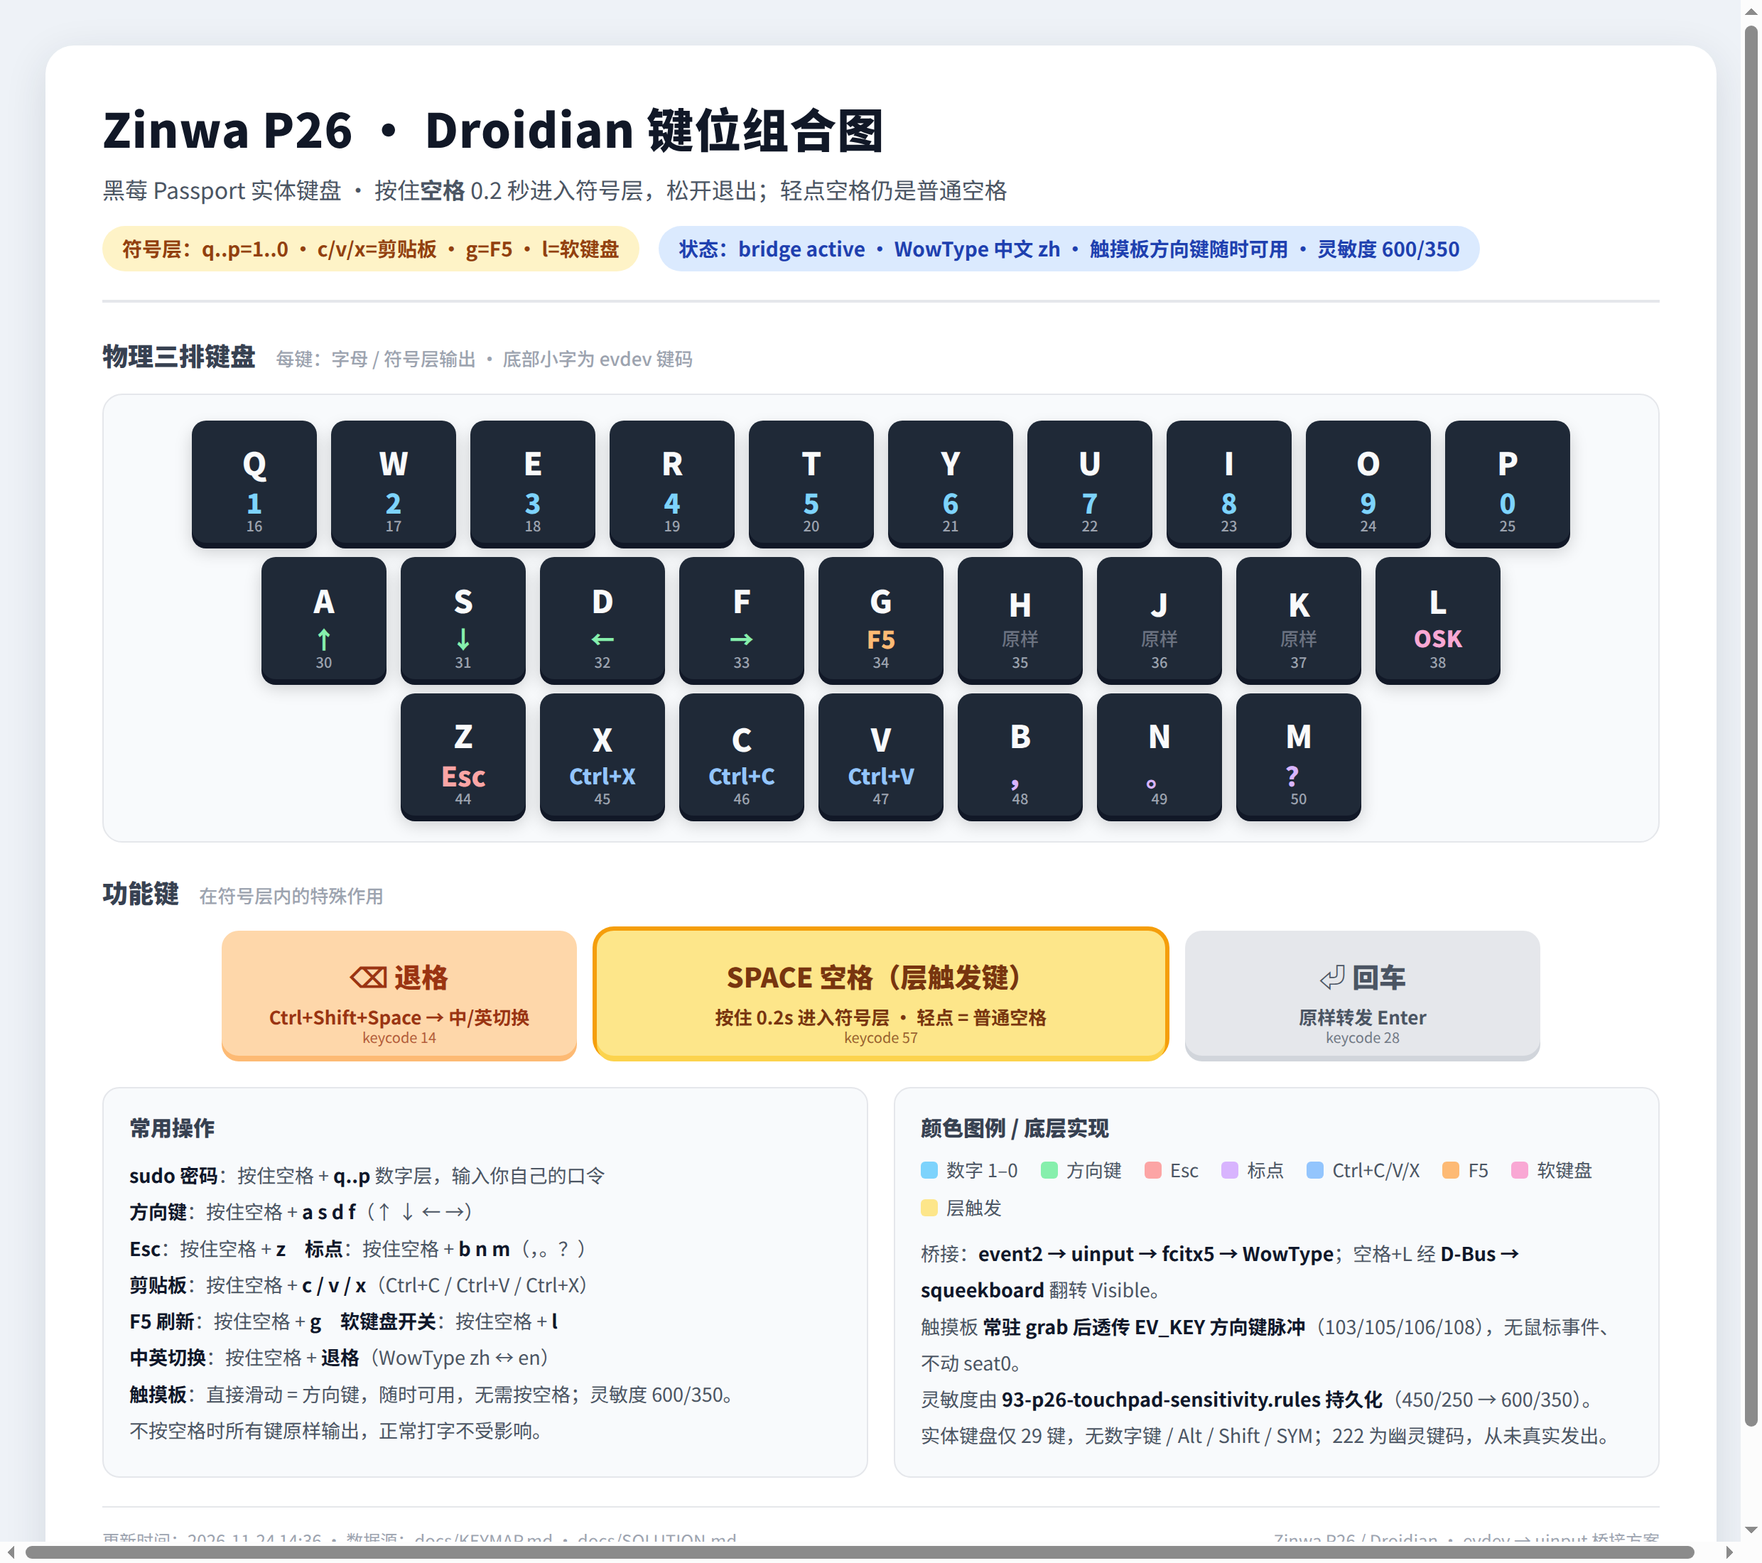
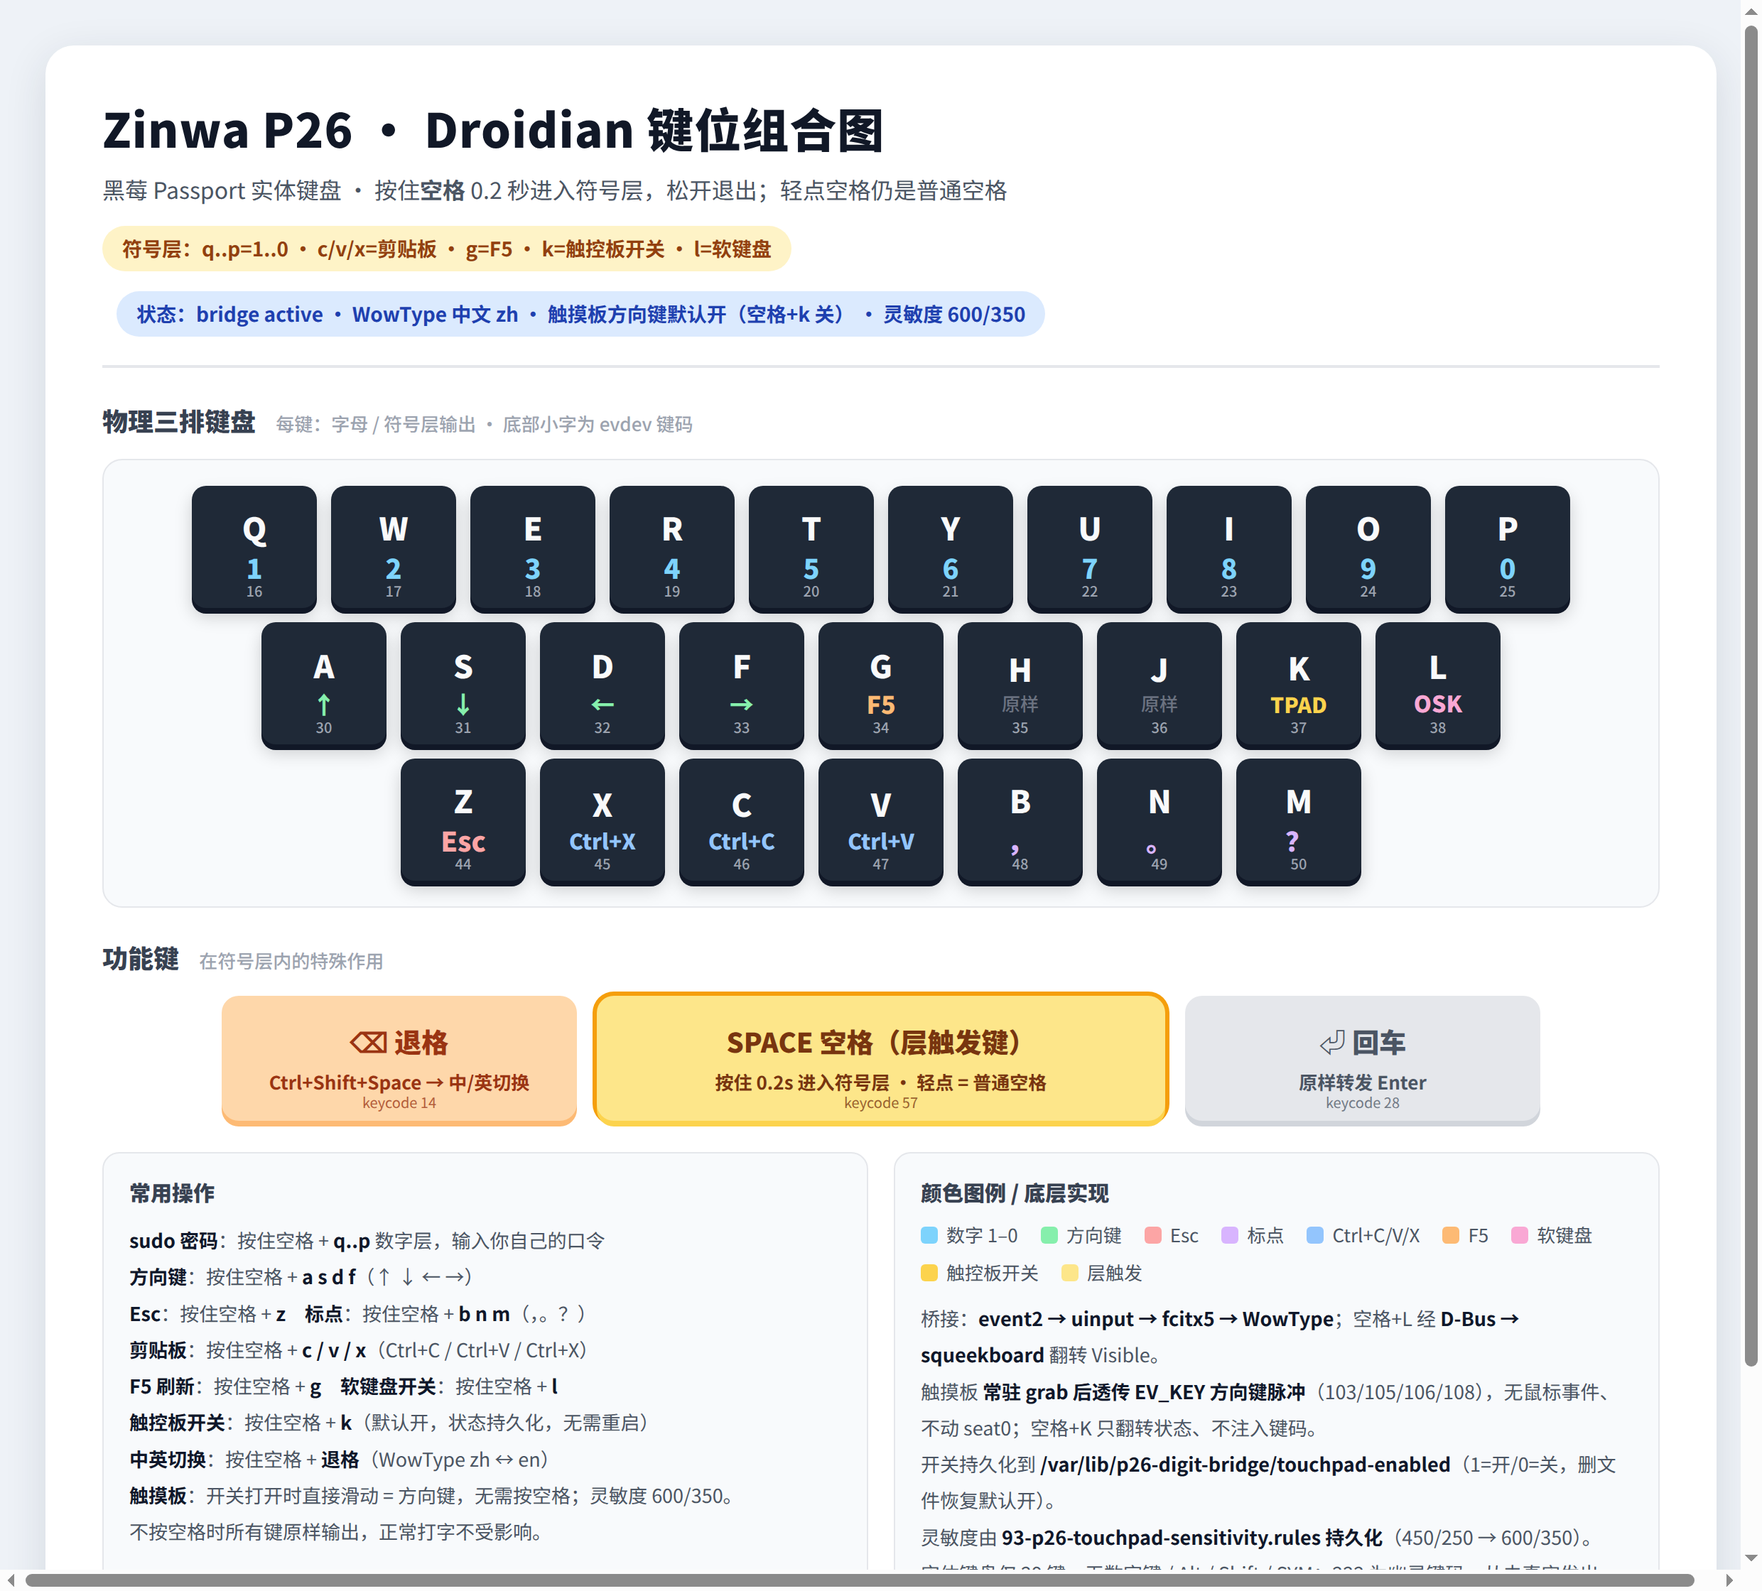
Add SPACE+K touchpad arrow toggle with persisted switch state
- LAYER_MAP k (37) -> TOUCH_TOGGLE action, fires once on keydown, injects no keycode
- touchpad fd stays grabbed and drained while off (no event leakage)
- state persisted at /var/lib/p26-digit-bridge/touchpad-enabled (1=on/0=off, default on)
- selftest case11 verifies missing -> 0 -> 1 transition and no keycode leak
- docs/KEYMAP.md, docs/SOLUTION.md, README.md and keymap PNG/HTML updated

Changed region(s): [[0.0621, 0.0618, 0.9315, 0.9891], [0.0621, 0.7109, 0.4036, 0.9891], [0.9625, 0.8345, 1.0, 0.9273]]

diff --git a/assets/P26-键位组合图.html b/assets/P26-键位组合图.html
@@ -41,6 +41,7 @@
   .k-ctrl .map { color: #93c5fd; font-size: 15px; }
   .k-fkey .map { color: #fdba74; font-size: 17px; }
   .k-osk  .map { color: #f9a8d4; font-size: 16px; }
+  .k-tpad .map { color: #fcd34d; font-size: 15px; }
   .k-pass .map { color: #6b7280; font-size: 13px; font-weight: 500; }
 
   .funcs { display: flex; justify-content: center; gap: 14px; margin-bottom: 22px; }
@@ -71,8 +72,8 @@
   <header>
     <h1>Zinwa P26 · Droidian 键位组合图</h1>
     <div class="sub">黑莓 Passport 实体键盘 · 按住<strong>空格</strong> 0.2 秒进入符号层，松开退出；轻点空格仍是普通空格</div>
-    <div class="badge">符号层：q..p=1..0 · c/v/x=剪贴板 · g=F5 · l=软键盘</div>
-    <div class="badge2">状态：bridge active · WowType 中文 zh · 触摸板方向键随时可用 · 灵敏度 600/350</div>
+    <div class="badge">符号层：q..p=1..0 · c/v/x=剪贴板 · g=F5 · k=触控板开关 · l=软键盘</div>
+    <div class="badge2">状态：bridge active · WowType 中文 zh · 触摸板方向键默认开（空格+k 关） · 灵敏度 600/350</div>
   </header>
 
   <div class="section-title">物理三排键盘 <span>每键：字母 / 符号层输出 · 底部小字为 evdev 键码</span></div>
@@ -97,7 +98,7 @@
       <div class="key k-fkey"><div class="letter">G</div><div class="map">F5</div><div class="code">34</div></div>
       <div class="key k-pass"><div class="letter">H</div><div class="map">原样</div><div class="code">35</div></div>
       <div class="key k-pass"><div class="letter">J</div><div class="map">原样</div><div class="code">36</div></div>
-      <div class="key k-pass"><div class="letter">K</div><div class="map">原样</div><div class="code">37</div></div>
+      <div class="key k-tpad"><div class="letter">K</div><div class="map">TPAD</div><div class="code">37</div></div>
       <div class="key k-osk"><div class="letter">L</div><div class="map">OSK</div><div class="code">38</div></div>
     </div>
     <div class="row">
@@ -127,8 +128,9 @@
         <b>Esc</b>：按住空格 + <b>z</b>　<b>标点</b>：按住空格 + <b>b n m</b>（，。？）<br>
         <b>剪贴板</b>：按住空格 + <b>c / v / x</b>（Ctrl+C / Ctrl+V / Ctrl+X）<br>
         <b>F5 刷新</b>：按住空格 + <b>g</b>　<b>软键盘开关</b>：按住空格 + <b>l</b><br>
+        <b>触控板开关</b>：按住空格 + <b>k</b>（默认开，状态持久化，无需重启）<br>
         <b>中英切换</b>：按住空格 + <b>退格</b>（WowType zh ↔ en）<br>
-        <b>触摸板</b>：直接滑动 = 方向键，随时可用，无需按空格；灵敏度 600/350。<br>
+        <b>触摸板</b>：开关打开时直接滑动 = 方向键，无需按空格；灵敏度 600/350。<br>
         不按空格时所有键原样输出，正常打字不受影响。
       </p>
     </div>
@@ -142,11 +144,13 @@
         <div class="lg"><span class="dot" style="background:#93c5fd"></span>Ctrl+C/V/X</div>
         <div class="lg"><span class="dot" style="background:#fdba74"></span>F5</div>
         <div class="lg"><span class="dot" style="background:#f9a8d4"></span>软键盘</div>
+        <div class="lg"><span class="dot" style="background:#fcd34d"></span>触控板开关</div>
         <div class="lg"><span class="dot" style="background:#fde68a"></span>层触发</div>
       </div>
       <p style="margin-top:10px">
         桥接：<b>event2 → uinput → fcitx5 → WowType</b>；空格+L 经 <b>D-Bus → squeekboard</b> 翻转 Visible。<br>
-        触摸板 <b>常驻 grab 后透传 EV_KEY 方向键脉冲</b>（103/105/106/108），无鼠标事件、不动 seat0。<br>
+        触摸板 <b>常驻 grab 后透传 EV_KEY 方向键脉冲</b>（103/105/106/108），无鼠标事件、不动 seat0；空格+K 只翻转状态、不注入键码。<br>
+        开关持久化到 <b>/var/lib/p26-digit-bridge/touchpad-enabled</b>（1=开/0=关，删文件恢复默认开）。<br>
         灵敏度由 <b>93-p26-touchpad-sensitivity.rules 持久化</b>（450/250 → 600/350）。<br>
         实体键盘仅 29 键，无数字键 / Alt / Shift / SYM；222 为幽灵键码，从未真实发出。
       </p>
@@ -154,7 +158,7 @@
   </div>
 
   <footer>
-    <span>更新时间：2026-11-24 14:36 · 数据源：docs/KEYMAP.md · docs/SOLUTION.md</span>
+    <span>更新时间：2026-11-24 14:52 · 数据源：docs/KEYMAP.md · docs/SOLUTION.md</span>
     <span>Zinwa P26 / Droidian · evdev → uinput 桥接方案</span>
   </footer>
 </div>

diff --git a/scripts/p26-digit-bridge.py b/scripts/p26-digit-bridge.py
@@ -21,15 +21,17 @@ This daemon bypasses keyd entirely:
         c v x                ->  Ctrl+C / Ctrl+V / Ctrl+X
         g                    ->  F5
         l                    ->  toggle on-screen keyboard (squeekboard)
+        k                    ->  toggle touchpad arrow forwarding ON/OFF
         backspace            ->  Ctrl+Shift+Space (WowType 中/英 toggle)
     (all mappings apply ONLY inside the hold-SPACE layer; plain typing is
      untouched. digit row per user request 2026-11-24.)
   * tap SPACE -> ordinary space, so normal typing is unaffected
   * (optional, --touch-name) grab touch_kbd and forward its arrow-key pulses
-    (KEY_UP/DOWN/LEFT/RIGHT) straight to the virtual keyboard, ALWAYS active
-    (no need to hold SPACE). libinput/phoc must NOT own touch_kbd: keep the
-    91-p26-touchpad-off.rules IGNORE so only this bridge reads it. This gives
-    a real "touchpad as arrow keys" without a virtual pointer or a seat0 hack.
+    (KEY_UP/DOWN/LEFT/RIGHT) straight to the virtual keyboard (no need to hold
+    SPACE). ON by default; hold SPACE + K toggles forwarding ON/OFF. libinput/
+    phoc must NOT own touch_kbd: keep the 91-p26-touchpad-off.rules IGNORE so
+    only this bridge reads it. This gives a real "touchpad as arrow keys"
+    without a virtual pointer or a seat0 hack.
 
 Requires root (EVIOCGRAB + /dev/uinput). Intended to run as systemd
 service p26-digit-bridge.service.
@@ -94,7 +96,7 @@ KEY_LEFTSHIFT, KEY_SLASH = 42, 53
 KEY_UP, KEY_LEFT, KEY_RIGHT, KEY_DOWN = 103, 105, 106, 108
 KEY_F5 = 63
 KEY_Q, KEY_P = 16, 25
-KEY_A, KEY_L = 30, 38
+KEY_A, KEY_K, KEY_L = 30, 37, 38
 KEY_X, KEY_C, KEY_V = 45, 46, 47
 KEY_Z, KEY_M = 44, 50
 
@@ -104,6 +106,7 @@ KEY_Z, KEY_M = 44, 50
 # layer; all other keys are forwarded verbatim. OSK_TOGGLE is a special
 # action (not a key sequence) and fires once on key-down.
 OSK_TOGGLE = object()
+TOUCH_TOGGLE = object()
 
 LAYER_MAP = {
     # first row -> digits 1..0
@@ -133,6 +136,7 @@ LAYER_MAP = {
     45: ("C+X", (KEY_LEFTCTRL, KEY_X)),      # x -> Ctrl+X
     34: ("F5",  (KEY_F5,)),                  # g -> F5
     38: ("OSK", OSK_TOGGLE),                 # l -> show/hide squeekboard
+    37: ("TPAD", TOUCH_TOGGLE),              # k -> touchpad arrows ON/OFF
     # backspace -> WowType ToggleKey (Ctrl+Shift+Space) for zh/en switch
     14: ("DEL", (KEY_LEFTCTRL, KEY_LEFTSHIFT, KEY_SPACE)),
 }
@@ -141,7 +145,7 @@ KEY_NAMES = {
     16: "q", 17: "w", 18: "e", 19: "r", 20: "t",
     21: "y", 22: "u", 23: "i", 24: "o", 25: "p",
     30: "a", 31: "s", 32: "d", 33: "f", 34: "g",
-    38: "l",
+    37: "k", 38: "l",
     44: "z", 45: "x", 46: "c", 47: "v", 48: "b", 49: "n", 50: "m",
 }
 
@@ -162,6 +166,24 @@ IDLE, PENDING, SYM = 0, 1, 2
 
 def log(msg):
     print("p26-digit-bridge: " + str(msg), flush=True)
+
+
+def load_touch_enabled(path):
+    """Persisted touchpad-arrow switch: ON unless the state file says '0'."""
+    try:
+        with open(path, encoding="ascii") as f:
+            return f.read().strip() != "0"
+    except OSError:
+        return True
+
+
+def save_touch_enabled(path, enabled):
+    try:
+        os.makedirs(os.path.dirname(path), exist_ok=True)
+        with open(path, "w", encoding="ascii") as f:
+            f.write("1\n" if enabled else "0\n")
+    except OSError as e:
+        log("touchpad switch persist failed: %r" % e)
 
 
 def find_event(name):
@@ -284,6 +306,8 @@ def main():
                     help="touchpad device name to forward arrow keys from (default: touch_kbd; empty to disable)")
     ap.add_argument("--no-touch", action="store_true",
                     help="disable touchpad arrow forwarding entirely")
+    ap.add_argument("--touch-state", default="/var/lib/p26-digit-bridge/touchpad-enabled",
+                    help="persist file for the SPACE+K touchpad switch (1=on, 0=off)")
     args = ap.parse_args()
 
     source = args.input or find_event(args.name)
@@ -318,6 +342,9 @@ def main():
     running = True
     state = IDLE
     deadline = 0.0
+    touch_enabled = load_touch_enabled(args.touch_state)
+    if touch is not None:
+        log("touchpad arrows ON" if touch_enabled else "touchpad arrows OFF (SPACE+K to enable)")
 
     def stop(_signum, _frame):
         nonlocal running
@@ -344,7 +371,8 @@ def main():
                 log("select failed: %r" % e)
                 break
 
-            # Touchpad: forward arrow-key pulses verbatim, always active.
+            # Touchpad: drain its fd every wake (so the buffer never fills),
+            # but only inject the arrow pulses while the SPACE+K switch is ON.
             if touch is not None and touch in readable:
                 try:
                     tdata = os.read(touch, EVENT_SIZE)
@@ -353,7 +381,8 @@ def main():
                 except OSError as e:
                     log("touchpad read failed: %r" % e)
                     tdata = b""
-                forward_touch_data(out, tdata, ARROW_KEYS)
+                if touch_enabled:
+                    forward_touch_data(out, tdata, ARROW_KEYS)
 
             if not readable:
                 # Timeout (no fd ready). Hold-timeout is handled at loop top.
@@ -412,6 +441,11 @@ def main():
                     if action is OSK_TOGGLE:
                         if value == 1:  # fire once on key-down
                             toggle_osk()
+                    elif action is TOUCH_TOGGLE:
+                        if value == 1:  # fire once on key-down
+                            touch_enabled = not touch_enabled
+                            save_touch_enabled(args.touch_state, touch_enabled)
+                            log("touchpad arrows -> %s" % ("ON" if touch_enabled else "OFF"))
                     else:
                         emit_seq(out, action, value)
                 else:

diff --git a/scripts/p26-bridge-selftest.py b/scripts/p26-bridge-selftest.py
@@ -123,10 +123,18 @@ def main():
     fake_ev = find_event_by_name("P26-test-source")
     print("fake source:", fake_ev, flush=True)
 
+    # Use an isolated state file so the self-test never touches the real
+    # touchpad switch state on a device.
+    touch_state_path = "/tmp/p26-selftest-touchpad-enabled"
+    try:
+        os.unlink(touch_state_path)
+    except OSError:
+        pass
+
     # Let bridge logs inherit stdout so failures are visible in real time.
     proc = subprocess.Popen(
         [sys.executable, bridge, "--input", fake_ev, "--label", "p26-test-out",
-         "--hold", "0.15"])
+         "--hold", "0.15", "--touch-state", touch_state_path])
 
     out_fd = None
     try:
@@ -432,7 +440,47 @@ def main():
         print("case10:", ("PASS" if ok10 else "FAIL") if ok10 is not None else "SKIP",
               flush=True)
 
-        results = (ok1, ok2, ok3, ok4, ok5, ok6, ok7, ok8, ok9, ok10)
+        # --- case 11: SPACE+K toggles the persisted touchpad switch --------
+        def press_k_layer():
+            inject(fake, 57, 1)          # space down
+            time.sleep(0.30)             # > hold -> layer on
+            inject(fake, 37, 1)          # k down -> TOUCH_TOGGLE
+            inject(fake, 37, 0)          # k up
+            time.sleep(0.10)             # allow state file write
+            inject(fake, 57, 0)          # space up
+
+        def read_state():
+            try:
+                with open(touch_state_path, encoding="ascii") as f:
+                    return f.read().strip()
+            except OSError:
+                return "<missing>"
+
+        ok11 = None
+        try:
+            time.sleep(0.2)
+            drain(out_fd, 0.1)
+            before = read_state()
+            press_k_layer()
+            drained = drain(out_fd, 0.2)
+            after1 = read_state()
+            press_k_layer()
+            drain(out_fd, 0.2)
+            after2 = read_state()
+            print("case11 state %s -> %s -> %s; leaked=%s" %
+                  (before, after1, after2, drained), flush=True)
+            ok11 = (before in ("1", "<missing>") and after1 == "0" and
+                    after2 == "1" and (37, 1) not in drained)
+        except Exception as e:
+            print("case11 ERROR: %r" % e, flush=True)
+            ok11 = False
+        print("case11:", "PASS" if ok11 else "FAIL", flush=True)
+        try:
+            os.unlink(touch_state_path)
+        except OSError:
+            pass
+
+        results = (ok1, ok2, ok3, ok4, ok5, ok6, ok7, ok8, ok9, ok10, ok11)
         return 0 if all(x is not False for x in results) else 1
     finally:
         if out_fd is not None:

diff --git a/docs/KEYMAP.md b/docs/KEYMAP.md
@@ -43,6 +43,7 @@ P26 / 黑莓 Passport 三排 29 键：26 字母 + 退格 + 回车 + 宽空格。
 | `v` | 47 | Ctrl(29)+KEY_V(47) | 粘贴 |
 | `x` | 45 | Ctrl(29)+KEY_X(45) | 剪切 |
 | `g` | 34 | KEY_F5 (63) | F5 |
+| `k` | 37 | 动作型 | 触摸板方向键开 / 关（默认开） |
 | `l` | 38 | 动作型 | 唤出 / 隐藏软键盘 |
 
 > 注意：`x/c/v` 的 evdev 键码分别是 45/46/47，映射表中物理键 `x` 对应 45。
@@ -51,7 +52,13 @@ P26 / 黑莓 Passport 三排 29 键：26 字母 + 退格 + 回车 + 宽空格。
 
 | 操作 | 事件 | 用途 |
 |---|---|---|
-| 滑动触摸板 | EV_KEY 103/105/106/108 原样转发 | `↑ ↓ ← →`，随时可用 |
+| 滑动触摸板 | EV_KEY 103/105/106/108 原样转发 | `↑ ↓ ← →`，开关打开时可用 |
+| 按住空格 + `k` | 动作型（不发键码） | 触摸板方向键开 / 关 |
+
+- **默认开**：服务启动即转发；关闭时继续 grab 并排空触摸板 fd，但不注入任何键，事件不会泄漏。
+- 开关状态持久化在 `/var/lib/p26-digit-bridge/touchpad-enabled`（`1`=开 / `0`=关），
+  重启服务或重启设备后保持；删除该文件即恢复默认开。
+- 日志可验证：`touchpad arrows -> ON / OFF`。
 
 灵敏度：sysfs `key_x_threshold` / `key_y_threshold`，默认 450/250，本项目设为 **600/350**
 （越大越不灵敏）。由 `config/93-p26-touchpad-sensitivity.rules` 持久化。
@@ -59,6 +66,6 @@ P26 / 黑莓 Passport 三排 29 键：26 字母 + 退格 + 回车 + 宽空格。
 ## 组合键实现细节
 
 - `emit_seq()`：press 正序，release 逆序，修饰键最后松开。
-- 动作型键（软键盘开关）只在 value=1 时触发一次，松键不重复。
+- 动作型键（软键盘开关、触摸板开关）只在 value=1 时触发一次，松键不重复。
 - 未进入符号层时所有按键原样转发（含退格与回车）。
 - 触摸板事件不断唤醒时，空格长按超时仍按显式 `now >= deadline` 判断，符号层不会失效。

diff --git a/docs/SOLUTION.md b/docs/SOLUTION.md
@@ -130,7 +130,7 @@ WowType 自己的 zh/en 模式切换，绑定 `ToggleKey=Control+Shift+space`，
 
 ---
 
-## 6. 触摸板方向键（随时可用）
+## 6. 触摸板方向键（默认开，空格+k 可关）
 
 ### 6.1 事件格式的关键发现
 
@@ -142,12 +142,20 @@ WowType 自己的 zh/en 模式切换，绑定 `ToggleKey=Control+Shift+space`，
 
 桥接按设备名找到 `touch_kbd` 节点并常驻 `EVIOCGRAB` 抓取，把它的方向键脉冲
 **原样转发**到虚拟键盘——不生成鼠标事件、不解除原有 91 屏蔽规则、不动 seat0、
-不重启 phoc。用户可「随时」用触摸板当方向键，与空格符号层无关。
+不重启 phoc。默认状态下用户可「随时」用触摸板当方向键，与空格符号层无关。
 
 主循环把触摸板 fd 加入 `select`；空格长按超时改为显式 `now >= deadline` 判断，
 避免触摸事件持续刷屏导致符号层超时失效。
 
-### 6.3 灵敏度
+### 6.3 空格+k 触控板开关
+
+在符号层内按 `k`（物理键码 37）是**动作型**键：只切换一个布尔状态，不注入任何键码。
+- 关闭时桥接**继续 grab 并排空**触摸板 fd，只是不转发方向键，事件不会泄漏给其他消费者；
+- 状态写入 `/var/lib/p26-digit-bridge/touchpad-enabled`（`1`=开 / `0`=关），重启服务与重启设备都保持；
+- 删除该状态文件即恢复默认开；日志输出 `touchpad arrows -> ON / OFF` 可供验证；
+- 自测 case11 用隔离的临时状态文件验证 `<missing> -> 0 -> 1` 翻转且无 `k` 键码泄漏。
+
+### 6.4 灵敏度
 
 旋钮是 sysfs 节点：
 
